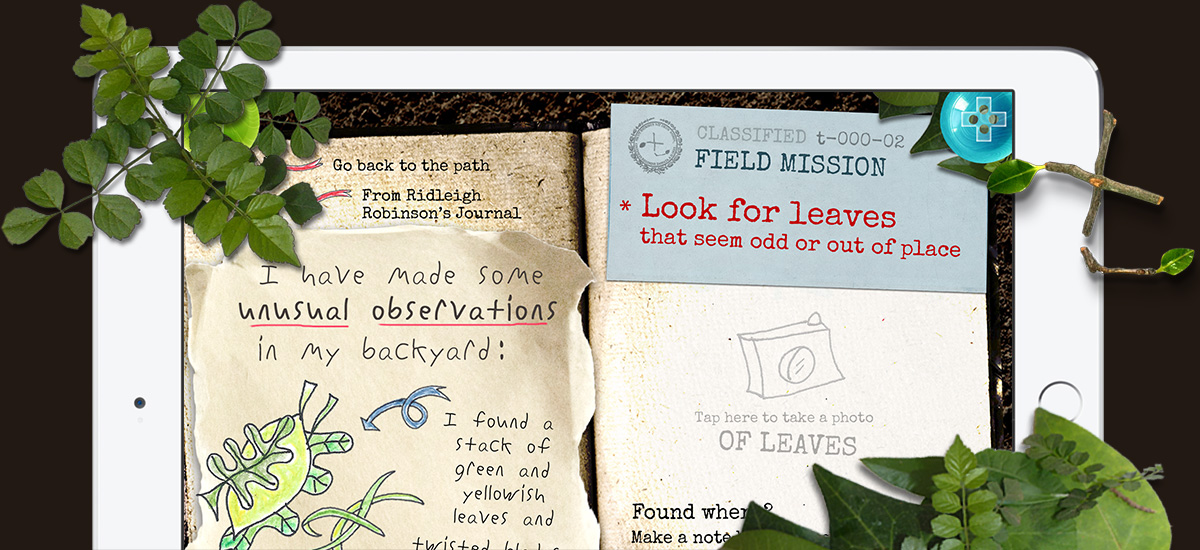
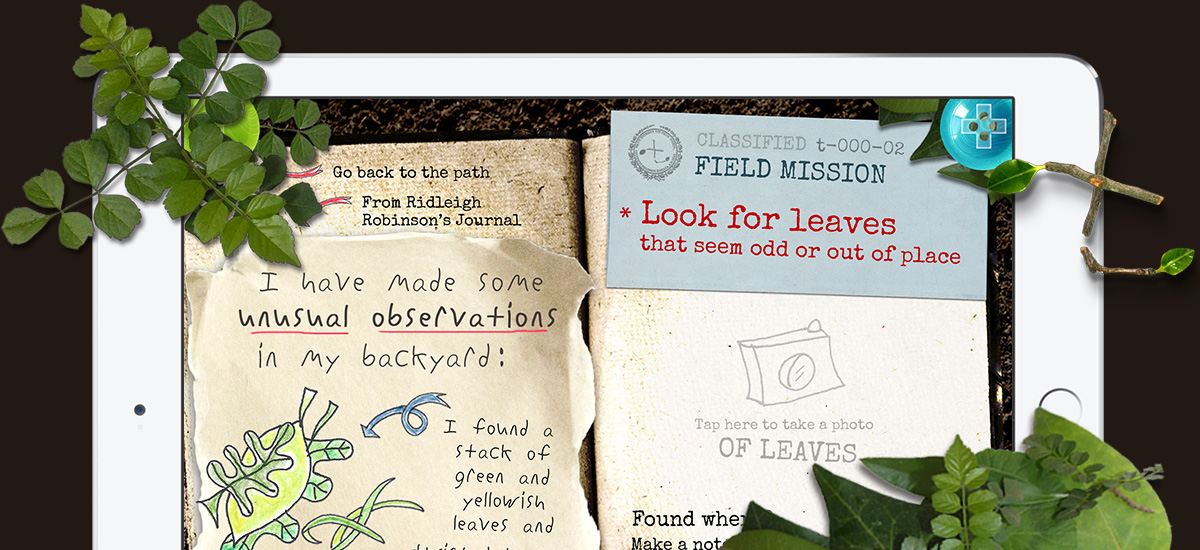
Styling and content updates

diff --git a/source/stylesheets/site.css.scss b/source/stylesheets/site.css.scss
@@ -13,8 +13,8 @@ html {
 }
 body {
   color: $dark-grey;
-  font: 400 125%/1.5 'Quarto A', 'Quarto B', 'Georgia', sans-serif;
-  //font: 400 125%/1.5 'Whitney SSm A', 'Whitney SSm B', 'Helvetica Neue', Arial, serif;
+  //font: 400 125%/1.5 'Quarto A', 'Quarto B', 'Georgia', sans-serif;
+  font: 400 125%/1.5 'Sentinel SSm A', 'Sentinel SSm B', 'Georgia', sans-serif;
   min-height: 100%;
   height: 100%;
   position: relative;
@@ -39,7 +39,7 @@ hr {
 
 // Typography
 
-h1,h2,h3,h4 {
+h1,h2,h3,h4, p:first-of-type:first-letter {
   font-family: 'Quarto A', 'Quarto B', 'Georgia', sans-serif;
   font-weight: 700;
   text-align: center;
@@ -66,7 +66,7 @@ p {
   max-width: 700px;
   width: 100%;
   &.intro {
-    font-size: 1.4em;
+    font-size: 1.2em;
     text-align: left;
     &:first-letter {
       float: left;
@@ -77,14 +77,26 @@ p {
     }
   }
 }
+strong {
+  color: #000;
+  font-weight: 700;
+}
 figure {
   text-align: center;
   blockquote {
     font-family: 'Quarto A', 'Quarto B', 'Georgia', sans-serif;
+    font-style: italic;
     font-size: 1.6em;
-    font-weight: 700;
+    font-weight: 400;
     text-align: center;
     padding: 0 2em;
+    &:before {
+      content: '“';
+      font-size: 3em;
+      font-style: normal;
+      font-weight: 700;
+      line-height: 0.2;
+    }
   }
 }
 
@@ -167,7 +179,7 @@ fieldset {
   z-index: 100;
 }
 nav {
-  font-family: 'Quarto A', 'Quarto B', 'Georgia', sans-serif;
+  //font-family: 'Quarto A', 'Quarto B', 'Georgia', sans-serif;
   font-size: 1.2em;
   font-weight: 400;
   li {
@@ -229,6 +241,10 @@ nav {
     z-index: 10;
     @include box-sizing(border-box);
   }
+  h2 {
+    font-size: 4em;
+    line-height: 1;
+  }
   a {
     color: #fff;
   }
@@ -242,7 +258,7 @@ nav {
   width: 100%;
   @include box-sizing(border-box);
   > h1 {
-    font-size: 2em;
+    font-size: 2.5em;
     text-align: center;
   }
   > p {
@@ -275,7 +291,7 @@ body.trickets {
   .featured {
     background-color: $trickets-color;
     color: #cec3b7;
-    article:nth-child(2) {
+    article:nth-child(3) {
       background: url('/images/work/trickets/trickets-featured.jpg') no-repeat bottom center;
       background-size: 100%;
       display: block;
@@ -291,7 +307,7 @@ body.sports-digest-8-50 {
     background: url('/images/work/sports-digest-8-50/8-50-background.jpg') no-repeat center;
     background-size: cover;
     color: $sports-digest-color;
-    article:nth-child(3) {
+    article:nth-child(2) {
       display: block;
     }
   }
@@ -424,7 +440,7 @@ body.super-better {
 }
 .what-we-did {
   float: left;
-  font-size: 1.2em;
+  //font-size: 1.2em;
   width: 30%;
   h2 {
     margin: 0;

diff --git a/source/javascripts/application.js b/source/javascripts/application.js
@@ -24,7 +24,7 @@ if ( 'querySelector' in document && 'addEventListener' in window ) {
 
   // Adding random classes to the homepage
   if(hasClass(body, 'page-index') ) {
-    var bodyClasses = ['alfred-app','trickets','sports-digest-8-50','alton-convent-school'];
+    var bodyClasses = ['alfred-app','sports-digest-8-50','trickets','alton-convent-school'];
     var randomClass = Math.floor(Math.random()*bodyClasses.length);
     addClass(body, bodyClasses[randomClass]);
   } 

diff --git a/config.rb b/config.rb
@@ -30,7 +30,7 @@ page "/sitemap.xml", :layout => false
 # proxy "/this-page-has-no-template.html", "/template-file.html", :locals => {
 #  :which_fake_page => "Rendering a fake page with a local variable" }
 
-data.work_items.clients.each do |client|
+data.work_items.clients.each_with_index do |client, index|
   proxy "/work/#{client.url}.html", "/work-item.html", locals: { 
     client: client,
     title: client.name,
